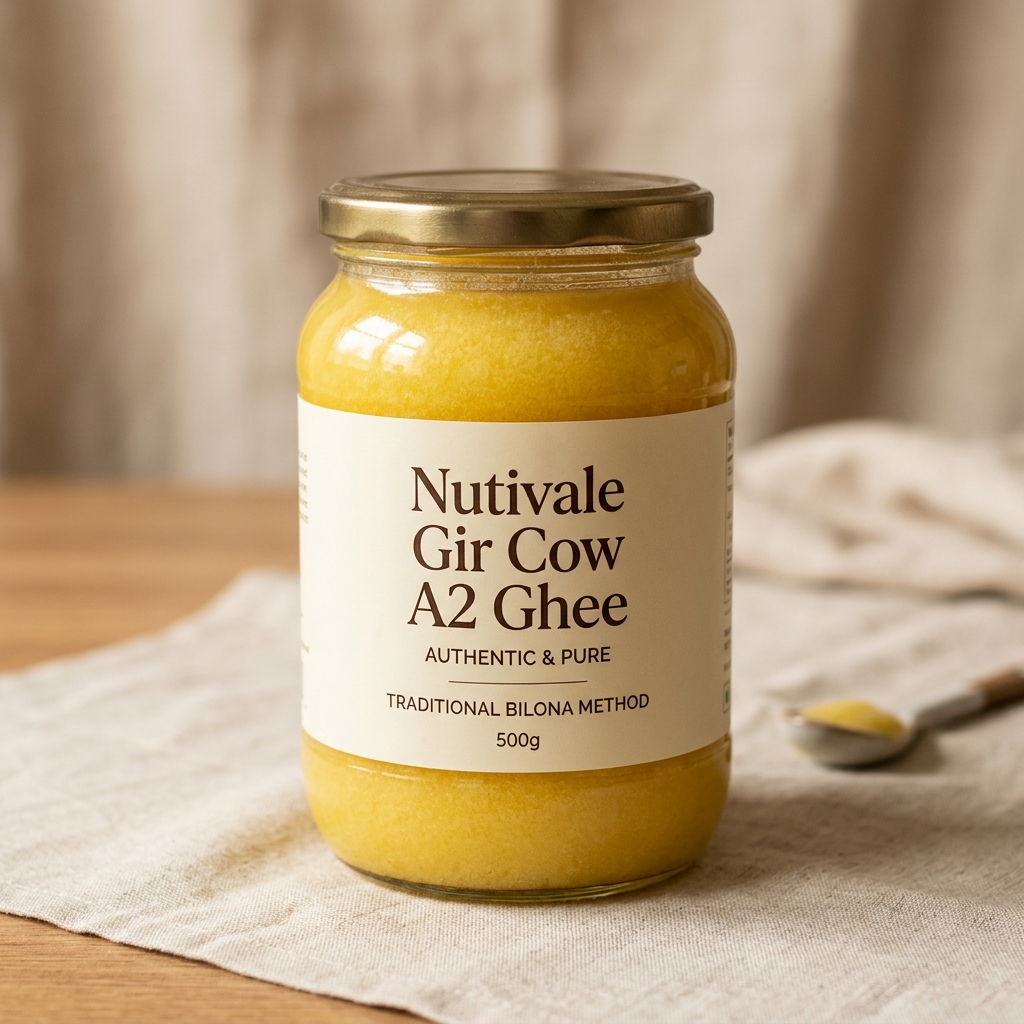
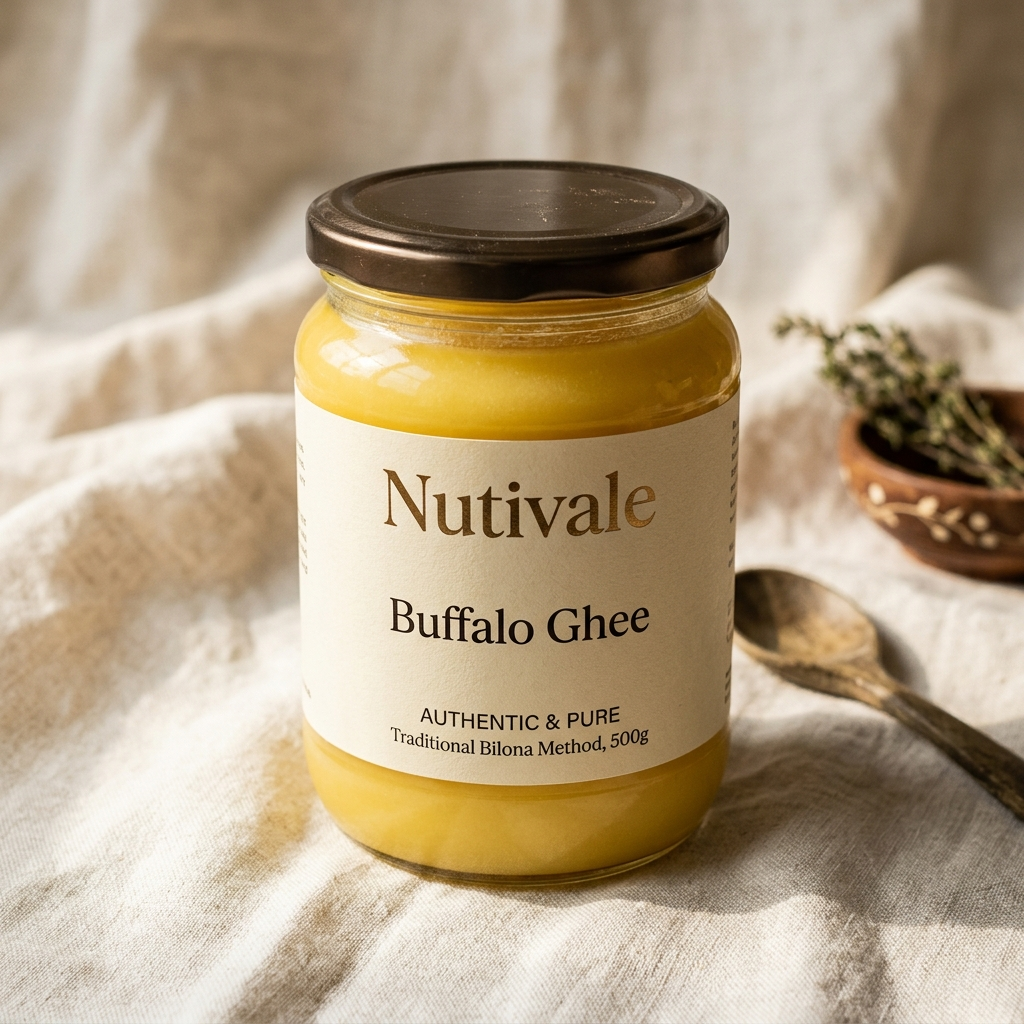
Update pricing, remove A2 and Organic branding, update ghee images, add support email, and clean Navbar

diff --git a/src/app/shop/page.tsx b/src/app/shop/page.tsx
@@ -26,14 +26,14 @@ const sizePrices: Record<string, Record<string, number>> = {
     "1 Ltr": 75,
   },
   "buffalo-ghee": {
-    "250 ml": 350,
-    "500 ml": 650,
-    "1 Ltr": 1200,
+    "250 grms": 300,
+    "500 grms": 550,
+    "1 kg": 1000,
   },
   "cow-ghee": {
-    "250 ml": 350,
-    "500 ml": 650,
-    "1 Ltr": 1200,
+    "250 grms": 450,
+    "500 grms": 800,
+    "1 kg": 1500,
   },
   "paneer": {
     "250 grms": 150,
@@ -67,7 +67,7 @@ const productsData: Product[] = [
     image: "/images/cow_milk.png",
     category: "milk",
     organic: true,
-    description: "Pure, light, and easy-to-digest organic raw A2 cow milk.",
+    description: "Pure, light, and easy-to-digest raw cow milk.",
     sizes: ["1/2 Ltr", "1 Ltr"],
   },
   {
@@ -75,22 +75,22 @@ const productsData: Product[] = [
     name: "Buffalo Ghee (Curd Clarified)",
     rating: 4.8,
     reviews: 92,
-    image: "/images/buffalo_ghee.png",
+    image: "/images/buffalo_ghee.png?v=2",
     category: "ghee",
     organic: true,
     description: "Rich, aromatic buffalo ghee, slow-clarified from cultured buffalo curd.",
-    sizes: ["250 ml", "500 ml", "1 Ltr"],
+    sizes: ["250 grms", "500 grms", "1 kg"],
   },
   {
     id: "cow-ghee",
     name: "Cow Ghee (Curd Clarified)",
     rating: 4.9,
     reviews: 215,
-    image: "/images/cow_ghee.png",
+    image: "/images/cow_ghee.png?v=2",
     category: "ghee",
     organic: true,
     description: "Traditional Vedic Bilona cow ghee churned from cultured curd, not cream.",
-    sizes: ["250 ml", "500 ml", "1 Ltr"],
+    sizes: ["250 grms", "500 grms", "1 kg"],
   },
   {
     id: "paneer",
@@ -100,7 +100,7 @@ const productsData: Product[] = [
     image: "/images/paneer.png",
     category: "paneer",
     organic: true,
-    description: "Soft, spongy cottage cheese cubes pressed fresh using organic whole milk.",
+    description: "Soft, spongy cottage cheese cubes pressed fresh using pure whole milk.",
     sizes: ["250 grms", "500 grms", "1 kg"],
   },
   {
@@ -121,14 +121,12 @@ export default function Shop() {
   const [selectedCategory, setSelectedCategory] = useState<string>("all");
   const [sortBy, setSortBy] = useState<string>("featured");
   const [priceRange, setPriceRange] = useState<number>(1200);
-  const [onlyOrganic, setOnlyOrganic] = useState<boolean>(false);
-
   // Keep track of selected sizes for each product card in catalog
   const [chosenSizes, setChosenSizes] = useState<Record<string, string>>({
     "buffalo-milk": "1 Ltr",
     "cow-milk": "1 Ltr",
-    "buffalo-ghee": "500 ml",
-    "cow-ghee": "500 ml",
+    "buffalo-ghee": "500 grms",
+    "cow-ghee": "500 grms",
     "paneer": "250 grms",
     "curd-pot": "1 Ltr",
   });
@@ -153,9 +151,6 @@ export default function Shop() {
         if (currentPrice > priceRange) {
           return false;
         }
-        if (onlyOrganic && !product.organic) {
-          return false;
-        }
         return true;
       })
       .sort((a, b) => {
@@ -175,13 +170,12 @@ export default function Shop() {
         }
         return a.id.localeCompare(b.id);
       });
-  }, [selectedCategory, sortBy, priceRange, onlyOrganic, chosenSizes]);
+  }, [selectedCategory, sortBy, priceRange, chosenSizes]);
 
   const resetFilters = () => {
     setSelectedCategory("all");
     setSortBy("featured");
     setPriceRange(1200);
-    setOnlyOrganic(false);
   };
 
   return (
@@ -267,22 +261,6 @@ export default function Shop() {
                   <span>₹1,200</span>
                 </div>
               </div>
-
-              {/* Preferences / Certifications */}
-              <div className="space-y-3">
-                <h3 className="text-xs font-bold uppercase tracking-wider text-brand-green/60">
-                  Certifications
-                </h3>
-                <label className="flex items-center gap-3 cursor-pointer group text-sm font-medium text-brand-green">
-                  <input
-                    type="checkbox"
-                    checked={onlyOrganic}
-                    onChange={(e) => setOnlyOrganic(e.target.checked)}
-                    className="w-4 h-4 rounded border-brand-green/30 text-brand-green focus:ring-brand-green accent-brand-green"
-                  />
-                  <span>100% Organic Certified</span>
-                </label>
-              </div>
             </aside>
 
             {/* Product Grid and Header */}
@@ -348,11 +326,6 @@ export default function Shop() {
                             <span className="bg-brand-green text-brand-cream text-[10px] font-bold uppercase tracking-wider px-2.5 py-1 rounded-full text-center">
                               {product.category}
                             </span>
-                            {product.organic && (
-                              <span className="bg-brand-amber text-brand-slate text-[9px] font-extrabold uppercase tracking-wider px-2 py-0.5 rounded-full text-center">
-                                Organic
-                              </span>
-                            )}
                           </div>
                         </div>
 

diff --git a/src/app/page.tsx b/src/app/page.tsx
@@ -16,14 +16,14 @@ const sizePrices: Record<string, Record<string, number>> = {
     "1 Ltr": 75,
   },
   "buffalo-ghee": {
-    "250 ml": 350,
-    "500 ml": 650,
-    "1 Ltr": 1200,
+    "250 grms": 300,
+    "500 grms": 550,
+    "1 kg": 1000,
   },
   "cow-ghee": {
-    "250 ml": 350,
-    "500 ml": 650,
-    "1 Ltr": 1200,
+    "250 grms": 450,
+    "500 grms": 800,
+    "1 kg": 1500,
   },
   "paneer": {
     "250 grms": 150,
@@ -55,7 +55,7 @@ const bestsellers = [
     reviews: 112,
     image: "/images/cow_milk.png",
     category: "Milk",
-    description: "Pure, light, and easy-to-digest organic raw A2 cow milk.",
+    description: "Pure, light, and easy-to-digest raw cow milk.",
     sizes: ["1/2 Ltr", "1 Ltr"],
   },
   {
@@ -63,10 +63,10 @@ const bestsellers = [
     name: "Cow Ghee (Curd Clarified)",
     rating: 4.9,
     reviews: 215,
-    image: "/images/cow_ghee.png",
+    image: "/images/cow_ghee.png?v=2",
     category: "Ghee",
     description: "Traditional Vedic Bilona cow ghee churned from cultured curd, not cream.",
-    sizes: ["250 ml", "500 ml", "1 Ltr"],
+    sizes: ["250 grms", "500 grms", "1 kg"],
   },
   {
     id: "paneer",
@@ -75,7 +75,7 @@ const bestsellers = [
     reviews: 84,
     image: "/images/paneer.png",
     category: "Paneer",
-    description: "Soft, spongy cottage cheese cubes pressed fresh using organic whole milk.",
+    description: "Soft, spongy cottage cheese cubes pressed fresh using pure whole milk.",
     sizes: ["250 grms", "500 grms", "1 kg"],
   },
 ];
@@ -294,10 +294,10 @@ const recipesData: Recipe[] = [
     servings: 2,
     ingredients: [
       "2 cups fresh whole milk",
-      "1/2 tsp organic turmeric powder",
+      "1/2 tsp turmeric powder",
       "1/4 tsp cinnamon powder",
       "Pinch of freshly ground black pepper",
-      "1 tsp organic honey or jaggery (optional)"
+      "1 tsp honey or jaggery (optional)"
     ],
     instructions: [
       "Heat whole milk in a small saucepan over medium heat.",
@@ -330,7 +330,7 @@ export default function Home() {
   const [chosenSizes, setChosenSizes] = useState<Record<string, string>>({
     "buffalo-milk": "1 Ltr",
     "cow-milk": "1 Ltr",
-    "cow-ghee": "500 ml",
+    "cow-ghee": "500 grms",
     "paneer": "250 grms",
   });
 
@@ -386,7 +386,7 @@ export default function Home() {
                   <p className="text-[10px] text-brand-green/60 uppercase tracking-wider font-semibold">Curd Ghee</p>
                 </div>
                 <div className="text-center lg:text-left">
-                  <h4 className="text-2xl font-bold font-serif text-brand-green">A2 Milk</h4>
+                  <h4 className="text-2xl font-bold font-serif text-brand-green">Raw Milk</h4>
                   <p className="text-[10px] text-brand-green/60 uppercase tracking-wider font-semibold">Grass-Fed</p>
                 </div>
               </div>
@@ -444,7 +444,7 @@ export default function Home() {
               {
                 name: "Ghee",
                 subtext: "HERITAGE GOLD",
-                image: "/images/cow_ghee.png",
+                image: "/images/cow_ghee.png?v=2",
                 link: "/shop?category=ghee",
               },
               {
@@ -498,7 +498,7 @@ export default function Home() {
                 Our Dairy Best Sellers
               </h2>
               <p className="text-sm text-brand-green/70 max-w-xl">
-                Rich, organic, chemical-free dairy products prepared using traditional Vedic methods.
+                Rich, chemical-free dairy products prepared using traditional Vedic methods.
               </p>
             </div>
             <Link
@@ -716,7 +716,7 @@ export default function Home() {
               <div className="relative w-full aspect-[4/5] rounded-3xl overflow-hidden shadow-lg border border-brand-green/5">
                 <Image
                   src="/images/orchard.png"
-                  alt="Organic dairy farming landscape"
+                  alt="Dairy farming landscape"
                   fill
                   sizes="(max-w-7xl) 100vw, 40vw"
                   className="object-cover hover:scale-102 transition-transform duration-500"

diff --git a/src/components/Navbar.tsx b/src/components/Navbar.tsx
@@ -23,7 +23,6 @@ export default function Navbar() {
     { name: "Shop", path: "/shop" },
     { name: "Our Story", path: "/story" },
     { name: "Quality", path: "/#quality" },
-    { name: "Blog", path: "/#blog" },
   ];
 
   return (
@@ -65,27 +64,7 @@ export default function Navbar() {
 
           {/* Right Actions */}
           <div className="flex items-center space-x-6">
-            {/* Search (Cosmetic) */}
-            <button
-              className="text-brand-green hover:text-brand-amber p-1 transition-colors"
-              aria-label="Search"
-              id="btn-search"
-            >
-              <svg
-                xmlns="http://www.w3.org/2000/svg"
-                fill="none"
-                viewBox="0 0 24 24"
-                strokeWidth={1.5}
-                stroke="currentColor"
-                className="w-5 h-5"
-              >
-                <path
-                  strokeLinecap="round"
-                  strokeLinejoin="round"
-                  d="m21-21-5.197-5.197m0 0A7.5 7.5 0 1 0 5.196 5.196a7.5 7.5 0 0 0 10.607 10.607Z"
-                />
-              </svg>
-            </button>
+
 
             {/* Shopping Cart Icon with Badge */}
             <button

diff --git a/src/app/story/page.tsx b/src/app/story/page.tsx
@@ -9,7 +9,7 @@ const timelineSteps = [
     phase: "01",
     title: "Grass-Fed Milking",
     subtitle: "Eco-Conscious Farms",
-    description: "Our milk is sourced early morning from free-range cow and buffalo herds that graze on lush, certified organic pastures. No hormones are ever used.",
+    description: "Our milk is sourced early morning from free-range cow and buffalo herds that graze on lush, certified natural pastures. No hormones are ever used.",
   },
   {
     phase: "02",
@@ -61,7 +61,7 @@ export default function Story() {
             From Farms to Table: The Nutivale Story
           </h1>
           <p className="text-base sm:text-lg text-brand-green/80 max-w-2xl mx-auto leading-relaxed">
-            Reconnecting tables with clean, unprocessed dairy, organic raw milks, and curd-clarified ghee set in clay pots.
+            Reconnecting tables with clean, unprocessed dairy, raw milks, and curd-clarified ghee set in clay pots.
           </p>
         </div>
       </section>
@@ -79,12 +79,12 @@ export default function Story() {
                 Most commercial dairy is homogenized and ultra-heat pasteurized, destroying original enzymes, vitamins, and natural gut bacteria. Furthermore, standard ghee is quickly extracted from industrial cream using high-pressure centrifuges.
               </p>
               <p className="text-sm text-brand-green/70 leading-relaxed font-sans">
-                At Nutivale, we prioritize traditional methods. We partner with small organic farm cooperatives who pamper their cattle. Our buffalo and cow milk is packaged raw and delivered cold. Our ghee is crafted using the ancient Bilona method, churning curd directly to ensure premium digestibility and a rich, granular texture.
+                At Nutivale, we prioritize traditional methods. We partner with small farm cooperatives who pamper their cattle. Our buffalo and cow milk is packaged raw and delivered cold. Our ghee is crafted using the ancient Bilona method, churning curd directly to ensure premium digestibility and a rich, granular texture.
               </p>
               <div className="grid grid-cols-2 gap-6 pt-4">
                 <div className="border-l-2 border-brand-amber pl-4">
                   <h4 className="font-serif text-base font-bold text-brand-green">Zero Hormones</h4>
-                  <p className="text-xs text-brand-green/60 mt-1">Our cattle are fed grass and organic fodder, ensuring milk completely free of artificial hormones.</p>
+                  <p className="text-xs text-brand-green/60 mt-1">Our cattle are fed grass and natural fodder, ensuring milk completely free of artificial hormones.</p>
                 </div>
                 <div className="border-l-2 border-brand-amber pl-4">
                   <h4 className="font-serif text-base font-bold text-brand-green">Traditional Clay Pots</h4>
@@ -98,7 +98,7 @@ export default function Story() {
               <div className="relative w-full aspect-square rounded-3xl overflow-hidden shadow-lg border border-brand-green/5">
                 <Image
                   src="/images/orchard.png"
-                  alt="Organic dairy farm pasture"
+                  alt="Dairy farm pasture"
                   fill
                   sizes="(max-w-7xl) 100vw, 40vw"
                   className="object-cover"
@@ -158,7 +158,7 @@ export default function Story() {
               Behind the Brand
             </h2>
             <p className="text-sm text-brand-green/80">
-              Meet Raju and Durga, who turned a passion for clean dairy into a premium organic standard.
+              Meet Raju and Durga, who turned a passion for clean dairy into a premium quality standard.
             </p>
           </div>
 

diff --git a/next.config.ts b/next.config.ts
@@ -1,7 +1,13 @@
 import type { NextConfig } from "next";
 
 const nextConfig: NextConfig = {
-  /* config options here */
+  images: {
+    localPatterns: [
+      {
+        pathname: "/images/**",
+      },
+    ],
+  },
 };
 
 export default nextConfig;

diff --git a/src/components/Footer.tsx b/src/components/Footer.tsx
@@ -65,7 +65,7 @@ export default function Footer() {
               Nutivale
             </Link>
             <p className="text-sm text-brand-cream/70 leading-relaxed max-w-sm">
-              Delivering the purest farm-fresh organic raw milk, curd-clarified Vedic ghee, handmade paneer, and clay pot curd directly to your home.
+              Delivering the purest farm-fresh raw milk, curd-clarified Vedic ghee, handmade paneer, and clay pot curd directly to your home.
             </p>
             {/* Social Icons */}
             <div className="flex space-x-4 pt-2">
@@ -158,7 +158,9 @@ export default function Footer() {
                 <span className="opacity-50 cursor-not-allowed">Refund & Returns Policy</span>
               </li>
               <li>
-                <span className="opacity-50 cursor-not-allowed">Contact Us</span>
+                <a href="mailto:support@nutivale" className="hover:text-brand-amber transition-colors">
+                  Contact: support@nutivale
+                </a>
               </li>
             </ul>
           </div>

diff --git a/src/app/layout.tsx b/src/app/layout.tsx
@@ -19,7 +19,7 @@ const outfit = Outfit({
 });
 
 export const metadata: Metadata = {
-  title: "Nutivale | Farm Fresh Organic Raw Milk, Ghee & Dairy",
+  title: "Nutivale | Farm Fresh Raw Milk, Ghee & Dairy",
   description: "Savor Nutivale's premium raw cow and buffalo milk, traditional curd pots, paneer, and curd-clarified pure cow and buffalo ghee.",
 };
 